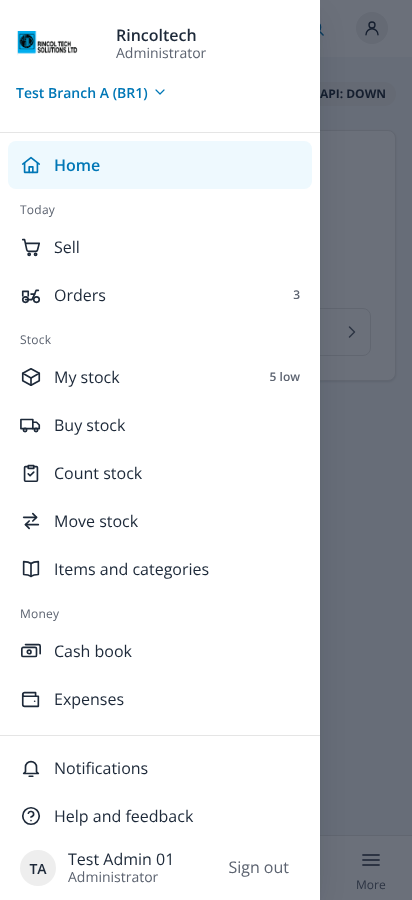
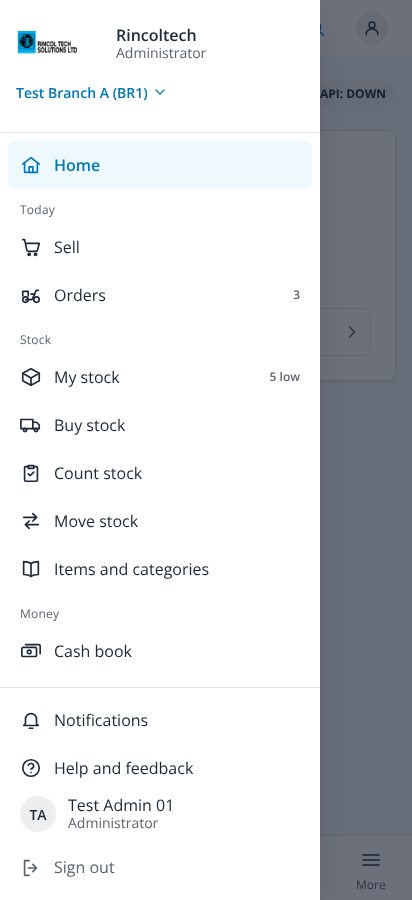
fix(menu): renumber the grouped menu ADR to ADR-086 (ADR-085 is #567's), and give Sign out its own row in the menu foot (#564)

diff --git a/frontend/src/app/ui/navigation.css b/frontend/src/app/ui/navigation.css
@@ -161,7 +161,7 @@
   padding: var(--space-2) var(--space-3);
   border-bottom: 1px solid var(--color-border);
   font-weight: var(--weight-semibold);
-  overflow-wrap: anywhere;
+  overflow-wrap: break-word;
 }
 
 .top-menu-item,
@@ -476,8 +476,7 @@ img.menu-shop-logo {
   white-space: nowrap;
 }
 
-.menu-shop-role,
-.side-menu-me-role {
+.menu-shop-role {
   overflow: hidden;
   color: var(--color-text-muted);
   font-size: var(--text-sm);
@@ -648,9 +647,10 @@ img.menu-shop-logo {
   height: 18px;
 }
 
-/* Who is signed in: initials, name and role, and Sign out at the right. */
+/* Who is signed in: initials, name and role, and Sign out on a row of its own under them, so neither is cut off at 264px. */
 .side-menu-me {
   display: flex;
+  flex-wrap: wrap;
   align-items: center;
   gap: var(--space-3);
   padding: var(--space-1) var(--space-1) 0 var(--space-3);
@@ -676,17 +676,34 @@ img.menu-shop-logo {
   line-height: var(--leading-tight);
 }
 
-.side-menu-me-name {
-  overflow: hidden;
-  text-overflow: ellipsis;
-  white-space: nowrap;
+/* The name and the role wrap rather than cut off, so the 264px sidebar shows them whole beside Sign out. */
+.side-menu-me-name,
+.side-menu-me-role {
+  overflow-wrap: break-word;
+}
+
+.side-menu-me-role {
+  color: var(--color-text-muted);
+  font-size: var(--text-sm);
 }
 
 .side-menu-sign-out {
-  flex: none;
+  display: flex;
+  align-items: center;
+  justify-content: flex-start;
+  gap: var(--space-3);
+  flex: 1 0 100%;
   min-height: var(--tap);
+  padding: 0;
+  border: 0;
   color: var(--color-text-muted);
   font-weight: var(--weight-regular);
+  box-shadow: none;
+}
+
+.side-menu-sign-out svg {
+  width: 22px;
+  height: 22px;
 }
 
 /*

diff --git a/frontend/src/components/side-menu.tsx b/frontend/src/components/side-menu.tsx
@@ -10,7 +10,7 @@ import { icons } from './icons';
 // the same list in a drawer from the left (SideMenu). Both draw MenuLinks, so the items, groups and the current one (aria-current)
 // cannot drift apart. The drawer closes on the backdrop, Escape, a left swipe or a chosen link, keeps focus inside while open and
 // gives it back to the menu button; any change of page closes it. A tour step that points at one of the data-tour anchors opens
-// the drawer for as long as the step is shown, without taking focus from the tour card. Since issue #564 (ADR-085) the links come
+// the drawer for as long as the step is shown, without taking focus from the tour card. Since issue #564 (ADR-086) the links come
 // in groups, each under a small muted heading (Today, Stock, Money, Business), never folded, and the sidebar no longer folds to
 // its icons: the menu is the same list on a phone and a laptop. `head` is drawn above the list and `foot` below it.
 

diff --git a/frontend/src/areas/staff/side-menu.dom.test.tsx b/frontend/src/areas/staff/side-menu.dom.test.tsx
@@ -18,7 +18,7 @@ import { staffAreas, staffMenu } from './menu';
 import { SCREENS, SCREEN_CAPABILITY, needsOf } from './retail/permissions';
 import { StaffBar, StaffSideNav } from './route';
 
-// The staff menu (issue #564, owner decisions D38 and D44, ADR-085): one grouped list, the same on a phone and a laptop. Home, then
+// The staff menu (issue #564, owner decisions D38 and D44, ADR-086): one grouped list, the same on a phone and a laptop. Home, then
 // Today, Stock, Money, Lending when the business has it, and Business, each under a small muted heading, every page the session
 // may open and nothing else, then a footer with Notifications, Help and feedback, the person and Sign out. From 720px it is a
 // fixed sidebar; below 720px the menu button at the top left of the top bar opens it as a drawer, which keeps what #455 gave it:

diff --git a/frontend/src/areas/staff/menu.tsx b/frontend/src/areas/staff/menu.tsx
@@ -16,7 +16,7 @@ import { SCREENS, canUse, showRetail, type RetailScreen } from './retail/permiss
 import { showSms } from './sms/state';
 import { showUsers } from './users/state';
 
-// The staff menu's groups and items (issue #564, owner decisions D38 and D44, ADR-085), apart from the layout in route.tsx so a
+// The staff menu's groups and items (issue #564, owner decisions D38 and D44, ADR-086), apart from the layout in route.tsx so a
 // test reads them without loading the staff area (issue #483). One list, grouped the way a shop owner thinks: Home, then Today,
 // Stock, Money, Lending (when the business has it) and Business, each item filtered by the same permission rules as before. The
 // sidebar from 720px and the phone drawer both draw it; Notifications and Help and feedback are in the menu's footer.

diff --git a/frontend/src/areas/staff/route.tsx b/frontend/src/areas/staff/route.tsx
@@ -239,6 +239,7 @@ function StaffMenuFoot({ me, busy, onSignOut, onHelp }: { me: Me; busy: boolean;
           {role && <span className="side-menu-me-role">{role}</span>}
         </span>
         <BusyButton type="button" className="btn-ghost side-menu-sign-out" busy={busy} onClick={onSignOut}>
+          {icons.signOut}
           Sign out
         </BusyButton>
       </div>

diff --git a/docs/sdd/03-functional-requirements.md b/docs/sdd/03-functional-requirements.md
@@ -1110,7 +1110,7 @@ Frontend only (issue #240); no API, schema or permission changes, except the loa
 | FR-UXN-01 | Every staff screen shall show one breadcrumb trail under the staff bar, drawn once by the staff layout and derived from the route table: each route declares a `crumb` label in its static data and the trail is the labelled routes on the way to the open one (for example Home, Retail, Stock). A detail screen names its last crumb after the entity it already loads (a loan or investment number, an account number) and falls back to the generic label with no extra request; a detail view inside a screen (a sale, a stock move, an item being edited) adds a last crumb and makes the screen's own crumb the way back to its list. | The trail is a `nav` named Breadcrumb with an ordered list; the last item is the current page (`aria-current="page"`, not a link); long labels are cut with an ellipsis and keep the full text as the title; below 720px only "Back to <parent>" and the current page show; a test fails when a staff route has no label; no trail is drawn where it would have one item. | MVP |
 | FR-UXN-02 | Retail item lists (stock per branch and across branches, and the catalogue items) shall group by category as expandable sections: a header per category with the item count and, where the screen shows quantity or value, a subtotal; Expand all and Collapse all; items without a category in a group called Uncategorised, last; groups A to Z. Sections start open for 30 items or fewer and closed above that; a search opens them, so a match inside a closed section shows. A "Group by category" switch is remembered per screen in the browser. Grouping works on the items the screen already holds, so server-side paging and search are unchanged and a paged list says it is grouped within the loaded items. | Each header is a button with `aria-expanded` and `aria-controls`; the choice survives a reload and a blocked storage only loses the memory; "Show more" does not open or close any section; the quantity subtotal appears only when the group's items share one unit; unit tests cover order, counts, subtotals, uncategorised, the 30-item rule and the remembered switch. | MVP |
 | FR-UXN-03 | Every staff route shall have a page tour in plain words with one step per main action, a breadcrumb label, and, where the page shows a buyer, an item, a sale, a branch or a total, a link to the screen that already exists for it (a buyer opens the buyer, an item its stock, a sale its documents and returns, a branch its stock, a total the rows behind it); a pull request that adds or renames a route shall change the tours, or say why not (ADR-049). | `route-coverage.test.ts`, the page tour tests, the link DOM tests and the `tour-guard` CI guard with its unit test. | MVP |
-| FR-UXN-04 | The staff menu shall be one list, the same on a phone and a laptop, grouped the way a shop owner thinks (issue #564, owner decisions D38 and D44, ADR-085, which replaces the Shop and Lending sections of issue #471): Home; Today (Sell, Orders with the open count, Approvals); Stock (My stock with "N low", Buy stock, Count stock, Move stock, Items and categories); Money (Cash book, Expenses, Customers who owe, What I owe suppliers, Savings and advances); Lending for a business with lending (Loans, Members, Savings, Investments, Insights) after Money; and Business (Reports, Staff, Receive payments, SMS, AI assistant, Business set-up); with a top showing the shop's logo or initials, the business name, the person's role and the branch picker, and a footer with Notifications, Help and feedback, the person's initials, name and role, and Sign out. From 720px it is a fixed sidebar of about 264px; below 720px the menu button at the top left opens it as a drawer of about 320px. Every row the session may open is listed by the same permission rules as the screens, with no cap; a group with no rows is left out; the names come from the glossary. | Rows are 48px with one line icon; the current row has a tinted background and brand-colour text and `aria-current="page"`, with no side stripe; group headings are small muted text and each group is a `role="group"` named by it; counts are muted figures read with the row; the only shadow is the drawer's. The drawer closes on a tap outside, Escape, a left swipe or a chosen link, traps and returns focus and respects the safe-area insets; a tour step that points at a menu row opens it. Tests (`side-menu.dom.test.tsx`, `menu-icons.test.tsx`, `retail/permissions.test.ts`): the groups and order for a shop, a lending and a two-module business, permission filtering, the counts, the current row, the drawer, and no five-row cap. | MVP |
+| FR-UXN-04 | The staff menu shall be one list, the same on a phone and a laptop, grouped the way a shop owner thinks (issue #564, owner decisions D38 and D44, ADR-086, which replaces the Shop and Lending sections of issue #471): Home; Today (Sell, Orders with the open count, Approvals); Stock (My stock with "N low", Buy stock, Count stock, Move stock, Items and categories); Money (Cash book, Expenses, Customers who owe, What I owe suppliers, Savings and advances); Lending for a business with lending (Loans, Members, Savings, Investments, Insights) after Money; and Business (Reports, Staff, Receive payments, SMS, AI assistant, Business set-up); with a top showing the shop's logo or initials, the business name, the person's role and the branch picker, and a footer with Notifications, Help and feedback, the person's initials, name and role, and Sign out. From 720px it is a fixed sidebar of about 264px; below 720px the menu button at the top left opens it as a drawer of about 320px. Every row the session may open is listed by the same permission rules as the screens, with no cap; a group with no rows is left out; the names come from the glossary. | Rows are 48px with one line icon; the current row has a tinted background and brand-colour text and `aria-current="page"`, with no side stripe; group headings are small muted text and each group is a `role="group"` named by it; counts are muted figures read with the row; the only shadow is the drawer's. The drawer closes on a tap outside, Escape, a left swipe or a chosen link, traps and returns focus and respects the safe-area insets; a tour step that points at a menu row opens it. Tests (`side-menu.dom.test.tsx`, `menu-icons.test.tsx`, `retail/permissions.test.ts`): the groups and order for a shop, a lending and a two-module business, permission filtering, the counts, the current row, the drawer, and no five-row cap. | MVP |
 | FR-UXN-05 | The staff Home shall show a card per module the business uses: Shop with today's sales total and count, the items low on stock and the open customer orders; Lending with the loans due today and in arrears (each a count and the amount still owed) and the lending requests waiting for approval. A business with one module sees only its card, and each figure shows only to a session holding the permission its endpoint requires (ADR-072): the shop figures come from the Home summary of FR-UXN-06 since issue #485 (today's sales `retail.sale.all_sellers`, the stock count `retail.stock.read`, the open orders `retail.order.manage`; the orders board only for a session without a sales read), `GET /lending/loans/summary` (`lending.loans.read`) and the approvals inbox (`core.approvals.read`). | The cards follow the active branch; Shop comes before Lending; a card with no figure the session may see is not drawn and asks no endpoint; a figure that cannot be loaded says so and the others stay; the loans due today and in arrears are read live from the schedule in the caller's branch scope, for a loan officer only their own portfolio (ADR-064), so a repayment lowers them at once; the cards stack in one column on a 360px phone. | MVP |
 | FR-UXN-06 | After the Shop card, the staff Home shall show the shop's summary cards to a session that sees everybody's money (`retail.sale.all_sellers` over the branches covered, ADR-055): Takings today (cash and mobile money always, then any other way that moved money, and the total, read the way the cash book reads a day so it agrees with the cash summary: sales paid at the sale, payments on credit sales and delivery fees in, cancelled sales, reversed payments on account and refunds on goods taken back out), Credit owed (the total owed by customers, how many customers and the oldest due date), Top items (the five items that sold the most by value, today or this week from Monday, switched on the card) and, only for a session that sees more than one branch with All branches chosen, Each shop today (one line per shop with its sales and number of sales, most first). Each card links to its full page (the cash summary or the sales list, credit control, the sales analysis, the shop dashboard). All shop figures come from one read, `GET /retail/reports/home` (issue #485, ADR-076), built from the dashboard, credit control and sales analysis queries over today or this week, in the tenant's business day (Africa/Kampala by default). | `RetailHomeSummaryIT`: the cash, mobile money and bank split of sales paid today and payments on credit sales dated today; the cash equal to the cash summary's for today; a refund today of yesterday's cash sale comes off today's cash and one of a mobile money sale off mobile money; a delivery fee taken in cash at the door is cash; a payment entered at 00:30 or 23:30 Kampala counts on its own date and a future-dated one is refused; `RetailHomeTakingsClockIT`: with the business clock at 23:30 and 00:30 Kampala each payment counts on its own day, and a payment dated after the day it was entered counts on its date; a sale on Sunday is last week's; a Store that sold today keeps its line and one that never sold has none; another tenant's sales never appear; a branch outside the caller's scope gives no part; credit owed equals credit control's total and buyer count, with the oldest due date; the top five today and this week; one line per shop over two or more shops and none for one; the branch chosen and the caller's branch scope narrow every figure; the takings need the cash summary's `retail.cashbook.read` over the branches covered and `retail.till.close`; a return on a credit sale taken off the balance moves no money; a receipt on account reversed today takes out what it brought in, matching the cash summary; a role without `retail.sale.all_sellers` gets 200 with no money part and still the stock count and the open orders; 403 without `retail.sale.read`. `home-cards.dom.test.tsx`: one read for every shop figure, the cards and their links, the switch to this week without another read, no money card without the permission or when the server leaves the part out, and plain words when nothing was taken, nobody owes or nothing sold. No migration. | MVP |
 | FR-UXN-07 | Every item picker (Record a sale online and offline, restock, usage and damage, move stock, count stock, price lists, orders, quotations, labels, purchase orders, goods received, joining sizes and the barcode assign panel) shall be one shared search box whose matches show as a short list under it only while something is typed, like a dropdown. Picking a match adds the item, empties the box, closes the list and leaves the cursor in the box for the next item. No picker shows an always-open or grouped browse list; the Stock page keeps the full list (FR-UXN-02). On the stock-take the search sits on top and the whole count sheet stays below it as "Not counted yet (N)", each line with its count box and a 0 button; a line moves to "Counted items" once its count is in, and finishing with lines left first says how many ("12 items not counted. Finish anyway?"), so a full count still walks the shelf list (owner decision on #535); there a pick puts the cursor in the item's count box, the next step, and any change to a count withdraws the question. The Scan box is unchanged (ADR-070 decision 11, owner decision D7). | `ItemCombobox` (`frontend/src/app/ui/ItemCombobox.tsx`) follows the WAI-ARIA combobox pattern: the input is `role="combobox"` with `aria-expanded`, `aria-controls` and `aria-autocomplete="list"`, the matches a `listbox` of `option`s at least 48px tall, the highlighted one announced through `aria-activedescendant`; Up and Down move it, Enter picks it (never an option not highlighted), Escape closes the list and a second Escape empties the box, and goes no further, while an Escape with nothing to close reaches the panel around the picker; matches show only once the answer is for the text in the box, so an earlier search's match is never tapped or picked; the search waits 250 ms after the last key and asks the server nothing for an empty box; at most 10 matches show, with "Type more to narrow" when there are more; no match says `No item matches "<text>".` Tests: `ItemCombobox.dom.test.tsx`, `item-picker.dom.test.tsx`, `stocktake.dom.test.tsx`, `screens.test.tsx` (issue #534). | MVP |

diff --git a/AGENTS.md b/AGENTS.md
@@ -602,7 +602,7 @@ The first customer is referred to only as **the pilot tenant**: a licensed money
   (`/platform/feedback`), the tours `page-feedback` and `page-operator-feedback`, and a Feedback step in `admin-welcome` v18,
   `retail-sales` v12 and `staff-welcome` v6. Tests: `FeedbackIT`, `RlsIsolationIT`, `ModularityTest`, `feedback-state.test.ts`,
   `feedback.dom.test.tsx`, `tours-operator.test.tsx`.
-- **Built (one grouped menu, issue #564, ADR-085, FR-UXN-04):** PWA only, no migration, no API change. `staffMenu` in
+- **Built (one grouped menu, issue #564, ADR-086, FR-UXN-04):** PWA only, no migration, no API change. `staffMenu` in
   `frontend/src/areas/staff/menu.tsx` builds the groups (Home, Today, Stock, Money, Lending, Business) with the permission checks,
   `useMenuCounts` reads the open orders and "N low" from Home's summary, and `SideNav` and `SideMenu` (`components/side-menu.tsx`)
   draw them with `MenuShop` (`branch-picker.tsx`) at the top and `StaffMenuFoot` (`route.tsx`) at the foot: a fixed 264px sidebar
@@ -998,7 +998,7 @@ Accepted (this list is the ADR index):
   are reused, no second payable system; Buy stock is paid in cash, mobile money, bank or on credit; a payment has a date, never in the future,
   and pays only what was owed that day; a supplier statement with a running balance, shared as text (proposed, #557, owner decision D15;
   FR-RET-73; amends ADR-033 as amended by #198; migration `V97`)
-- ADR-085 One grouped staff menu, the same on a phone and a laptop: Home, Today, Stock, Money, Lending (when on, after Money) and
+- ADR-086 One grouped staff menu, the same on a phone and a laptop: Home, Today, Stock, Money, Lending (when on, after Money) and
   Business, every page the session may open by the same permission rules and no cap; the shop logo or initials, business, role
   and branch picker at the top; Notifications, Help and feedback, the person and Sign out at the foot; a fixed 264px sidebar from
   720px that no longer folds and a drawer from the top left on a phone, the bottom tabs unchanged (proposed, #564, owner decisions

diff --git a/docs/ui/design-system.md b/docs/ui/design-system.md
@@ -142,7 +142,7 @@ The platform host and a tenant without a colour show the Rincol blue.
 
 ## Navigation (#455, #564)
 
-One menu, grouped the way a shop owner thinks, the same on a phone and a laptop (#564, owner decisions D38 and D44, ADR-085,
+One menu, grouped the way a shop owner thinks, the same on a phone and a laptop (#564, owner decisions D38 and D44, ADR-086,
 which amends the menu decisions of #455 and #471; the approved picture is `docs/ui/grouped-menu-564/menu.html`). From 720px it
 is a fixed sidebar; below 720px the menu button at the top left of the top bar opens the same list in a drawer from the left, and
 the bottom tabs for the five daily jobs stay as they are (#539, decisions D29 and D31). Where the navigation sits changes at the
@@ -177,7 +177,7 @@ means tablets should have the tabs too waits for the owner's sign-off (#544), an
   branch tour step (`branch-picker`) points at the sidebar's branch row. On a phone the top bar keeps its title and picker.
   The foot (`StaffMenuFoot` in `areas/staff/route.tsx`) holds Notifications, Help and feedback (a button that opens the Help
   sheet, with its tours and Send feedback; in the drawer it closes the drawer first), then the person's initials, name and role,
-  and Sign out (a `BusyButton`, busy while signing out runs).
+  and Sign out on a row of its own under them, so nothing is cut off at 264px (a `BusyButton`, busy while signing out runs).
 - **From 720px, the sidebar** (`SideNav`, a `div.side-nav`): a column at the left of the page, 264px wide, that stays in view
   while the page scrolls (`position: sticky`, the height of the window, the list scrolling between the top and the foot). It
   no longer folds to its icons. The page becomes two columns (`.nav-layout`, `.nav-layout-main`): the content takes the

diff --git a/docs/specs/retail-ui-notes.md b/docs/specs/retail-ui-notes.md
@@ -106,7 +106,7 @@ a no-op export.
 
 - The retail home shows one large tile per screen, with an icon, two per row on a phone. Each tile has its own icon
   (`icons[screen]`, issue #483), the same one its row shows in the staff menu; so do the catalogue tiles (`TILE_ICONS`).
-- The staff menu lists the shop's pages in groups (issue #564, ADR-085): Today (Sell, Orders with the open count),
+- The staff menu lists the shop's pages in groups (issue #564, ADR-086): Today (Sell, Orders with the open count),
   Stock (My stock with "N low", Buy stock, Count stock, Move stock, Items and categories) and Money (Cash book, Expenses,
   Customers who owe, What I owe suppliers, Savings and advances), then Reports under Business, which opens this retail
   home with the figures and every shop page. Each row shows only when the session may use its page, with no cap (the five

diff --git a/docs/sdd/11-member-channels.md b/docs/sdd/11-member-channels.md
@@ -127,7 +127,7 @@ dark theme follow (#429): the person picks Light, Dark or Same as my phone with 
 right of the header, or under Appearance on the Notifications and app page (#452), kept on the device; the tokens, the
 menu and the dark pairs are in `docs/ui/design-system.md`.
 
-Navigation (#455, #564): one grouped menu on every screen size (FR-UXN-04, ADR-085). The staff area
+Navigation (#455, #564): one grouped menu on every screen size (FR-UXN-04, ADR-086). The staff area
 lists its pages in groups the way a shop owner thinks: Home, Today, Stock, Money, Lending (for a
 business with lending) and Business, each under a small muted heading, every row with an inline SVG
 line icon, 48px high, the current one marked `aria-current="page"` with a tinted background and

diff --git a/docs/adr/ADR-072-home-cards-per-module-and-the-loans-summary.md b/docs/adr/ADR-072-home-cards-per-module-and-the-loans-summary.md
@@ -6,7 +6,7 @@ Accepted (owner request of 22 Oct 2026, issue #471, FR-UXN-04 and FR-UXN-05, aft
 ADR-001 (core plus vertical modules), ADR-003 (row-level security), ADR-055 (sellers who see only their own figures), ADR-064
 (a loan officer sees their own portfolio) and on the side menu of issue #455. Decision 2 (the Shop card's reads) is superseded by
 ADR-076 (issue #485): the Shop card and the shop's summary cards read one Home summary. The side menu's headed Shop and Lending
-sections of issue #471 are replaced by the grouped menu of ADR-085 (issue #564); the Home cards are unchanged.
+sections of issue #471 are replaced by the grouped menu of ADR-086 (issue #564); the Home cards are unchanged.
 
 ## Context
 

diff --git a/docs/adr/ADR-086-one-grouped-menu-for-phone-and-laptop.md b/docs/adr/ADR-086-one-grouped-menu-for-phone-and-laptop.md
@@ -1,4 +1,4 @@
-# ADR-085: One grouped menu, a drawer on a phone and a fixed sidebar on a laptop
+# ADR-086: One grouped menu, a drawer on a phone and a fixed sidebar on a laptop
 
 ## Status
 
